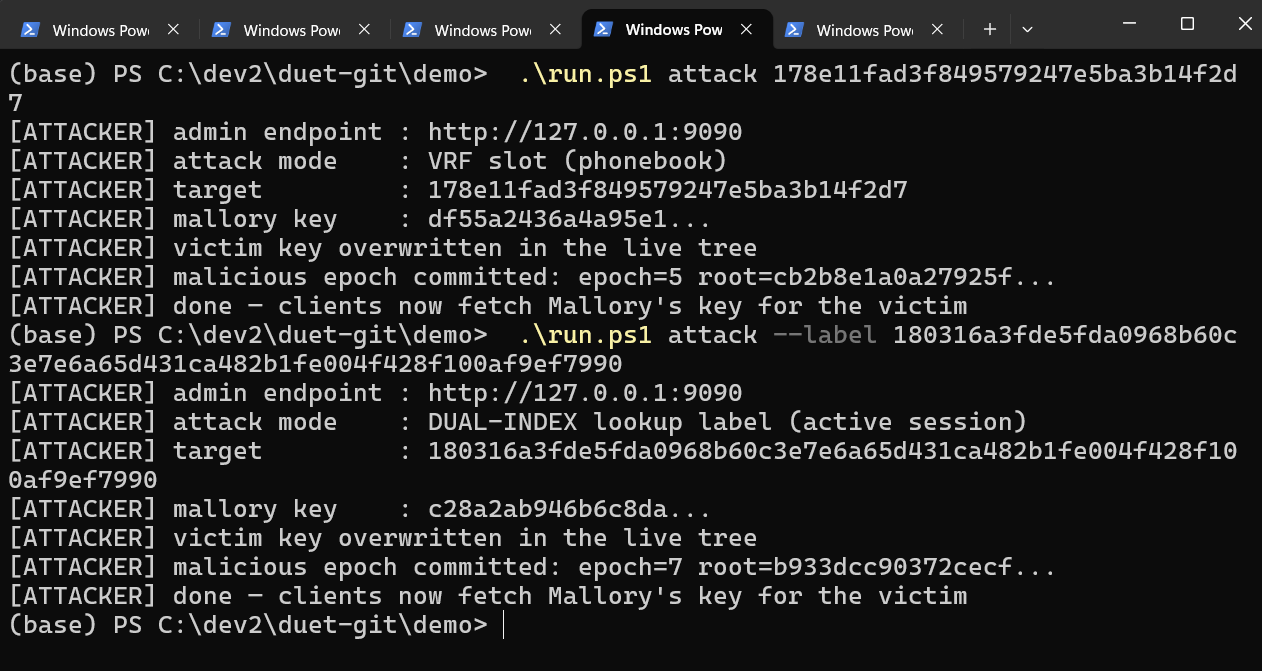
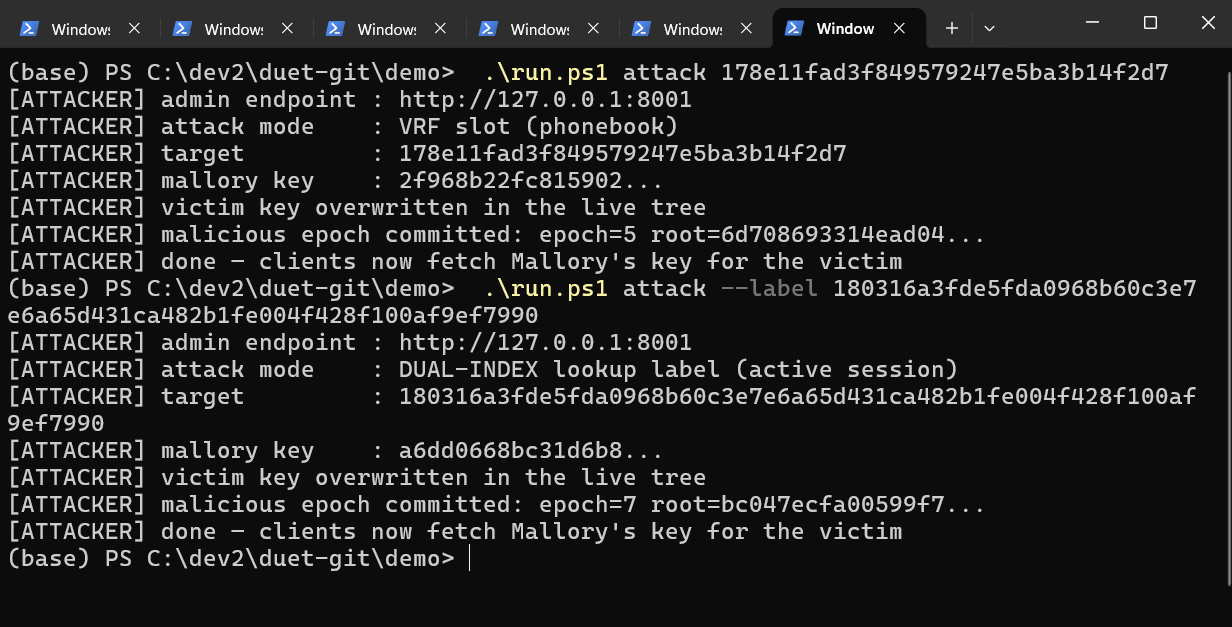
thesis: refresh the four demonstration screenshots and align CEA wording
Replaces the last stale captures. All four were re-taken after the
auditor wording change and the admin-port move, and copied into this
checkout rather than committed from the separate duet-thesis working
copy.

figures/auditor-rotations.png
  "verified: append-only history and the comparison head agree" (was
  "...and the independent vantage agree"). Verifies epochs 0, 2, 4, 6 and
  rejects epoch 7 with the transition-audit alert.
figures/auditor-fork.png
  Same corrected verified line, then the epoch-0 fork alert.
figures/cmd-equivocation.png
  "The staged comparison head (view=b) carries the forked root" and "the
  AUDITOR compares the primary and staged heads -> FORK alarm" (was the
  two-vantage-points phrasing). Admin endpoint now 127.0.0.1:8001.
figures/auditor-rotations-attack.png
  Admin endpoint now 127.0.0.1:8001. VRF-slot attack commits epoch 5, the
  dual-index attack commits epoch 7.

The captures are mutually consistent: the attack commits malicious epochs
5 and 7, and the auditor accepts through epoch 6 (the mutable
identity-entry rotation is a legitimate declared change) and rejects the
immutable dual-index replacement at epoch 7. Figure C.6, C.9 and C.10
captions already describe exactly this and needed no edit.

Also drops "example" from "ACKA's example CEA construction" in C.7.1, so
all five sites now read "ACKA's CEA construction" against the same
Section 5.1 citation (Ch4 twice, Ch5 Table 5.1, Appendix B, Appendix C).
[…]

Changed region(s): [[0.0, 0.0, 1.0, 0.9697]]

diff --git a/chapters/appendix-c-implementation-reference.tex b/chapters/appendix-c-implementation-reference.tex
@@ -375,7 +375,7 @@ The \texttt{vrf} module implements the
 ECVRF-EDWARDS25519-SHA512-TAI construction of RFC~9381 (suite \texttt{0x03}). The \texttt{dual\_index} module
 derives the three labels $\ell_{\mathsf{self}}$, $\ell_{\mathsf{peer}}$, and $\ell_{\mathsf{warn}}$
 from the shared secret by HKDF-SHA256 (RFC~5869), exactly as specified in
-\cref{ssec:design-labels}, and the \texttt{cea} module implements ACKA's example CEA
+\cref{ssec:design-labels}, and the \texttt{cea} module implements ACKA's CEA
 construction~\cite[Section~5.1]{dowling2023acka}. The crates
 \texttt{sha2}, \texttt{hkdf}, \texttt{ed25519-dalek}, and \texttt{curve25519-dalek} supply the standard
 primitives, and the ECVRF of RFC~9381 is the only primitive implemented directly, checked against the published
